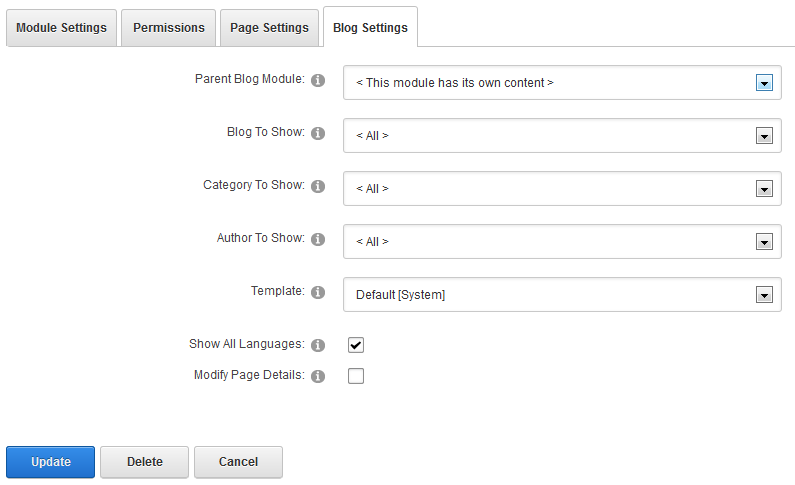
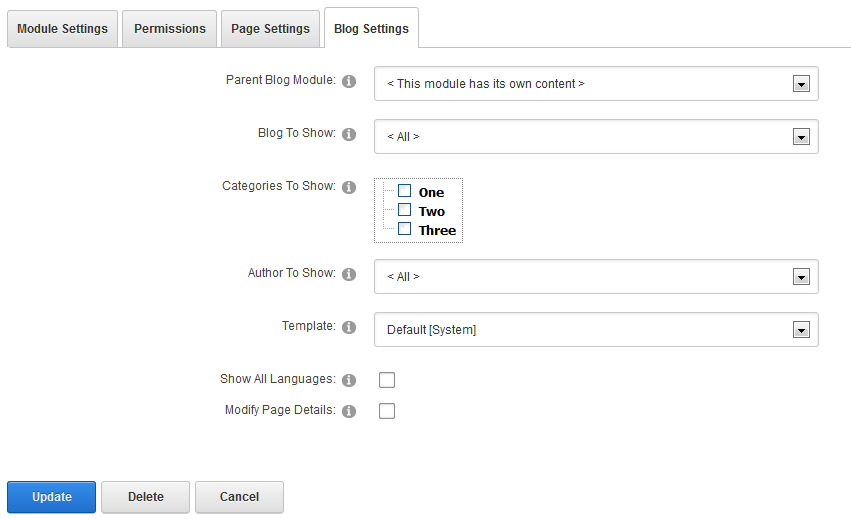
Finish documentation of multiple categories select on view settings

diff --git a/_Documentation/Manual.md b/_Documentation/Manual.md
@@ -194,8 +194,8 @@ Module editors can edit settings of the module. Those with “Create Blog” per
 ###<a id="parentblog"></a>Parent Blog Module
 Given that this is the first module you’ve stuck on the page, you’ll leave this as it is. But once you add another instance of the Blog module to the page (or another page), you can point that instance to this module by selecting it from the dropdown. Then, that “parent” blog module will be used to draw the data from. Typically you use this to show the data in another fashion somewhere, like an author list, a blog list, or a tag cloud for instance.
 
-###<a id="blogtoshow"></a>Blog/Category/Author To Show
-You can opt to have the module show just a single blog, category or author. Select that here. This way you could have a single themed page somewhere on your site which just shows posts relevant to that page.
+###<a id="blogtoshow"></a>Blog/Categories/Author To Show
+You can opt to have the module show just a single blog, categories or author. Select that here. This way you could have a single themed page somewhere on your site which just shows posts relevant to that page.
 
 ###<a id="template"></a>Template
 Selection of the template to use. The blog module comes with a number of templates “out of the box” that you can use. You can have your own templates stored in the portal home directory as well. More about templates later on.
